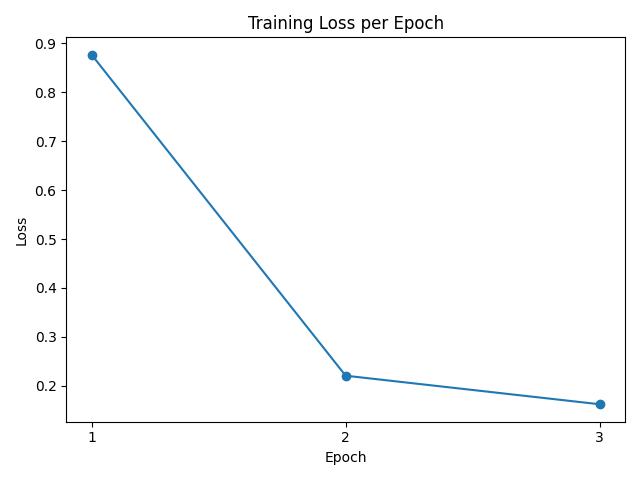
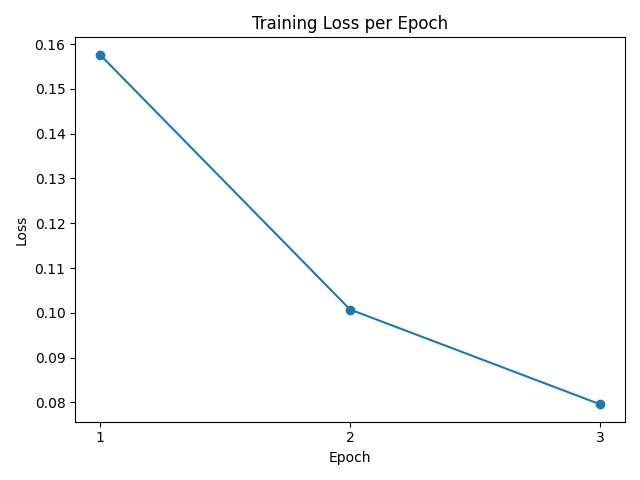
added script that does both training and overlays comparisons

diff --git a/src/overlay/comparison_overlay.py b/src/overlay/comparison_overlay.py
@@ -1,0 +1,102 @@
+import torch
+import copy
+from torchvision import datasets, transforms
+from torch.utils.data import DataLoader, random_split
+
+import sys
+import os
+sys.path.append(os.path.abspath("../.."))
+
+from src.client_training import train_local, evaluate_model, aggregate
+from src.CNN_implementation import CNN
+from src.plotting import plot_loss_overlay, plot_acc_overlay  # the new file
+
+
+# ─── Shared Data Setup ────────────────────────────────────────────────────────
+
+transform = transforms.ToTensor()
+
+full_mnist_trainset = datasets.MNIST(root='./data', train=True, download=True, transform=transform)
+train_size = int(0.7 * len(full_mnist_trainset))
+val_size   = len(full_mnist_trainset) - train_size
+mnist_trainset, mnist_valset = random_split(full_mnist_trainset, [train_size, val_size])
+mnist_testset = datasets.MNIST(root='./data', train=False, download=True, transform=transform)
+
+val_loader  = DataLoader(mnist_valset,  batch_size=64, shuffle=False)
+test_loader = DataLoader(mnist_testset, batch_size=64, shuffle=False)
+
+
+# ─── 1. Centralized Training ─────────────────────────────────────────────────
+
+print("=" * 40)
+print("CENTRALIZED TRAINING")
+print("=" * 40)
+
+number_of_epochs = 3
+train_loader = DataLoader(mnist_trainset, batch_size=64, shuffle=True)
+
+central_model = CNN()
+_, central_losses, central_val_accs = train_local(
+    central_model, train_loader, val_loader, number_of_epochs, lr=0.01
+)
+
+central_test_acc = evaluate_model(test_loader, central_model, True)
+print(f"Centralized Test Accuracy: {central_test_acc:.2f}%")
+
+
+# ─── 2. Federated Training (FedAvg) ──────────────────────────────────────────
+
+print("\n" + "=" * 40)
+print("FEDERATED TRAINING (FedAvg)")
+print("=" * 40)
+
+number_of_clients = 5
+number_of_rounds  = 3
+epochs            = 1
+
+trainset_size        = len(mnist_trainset)
+client_trainset_size = trainset_size // number_of_clients
+client_trainsets     = random_split(mnist_trainset, [client_trainset_size] * number_of_clients)
+client_training_loaders = [DataLoader(ds, batch_size=64, shuffle=True) for ds in client_trainsets]
+
+global_model       = CNN()
+fed_losses         = []
+fed_val_accs       = []
+
+for round_num in range(number_of_rounds):
+    print(f"\nRound {round_num + 1}:")
+
+    client_state_dicts = []
+    num_samples        = []
+    round_losses       = []
+
+    for client in range(number_of_clients):
+        print(f"  Client {client + 1}:")
+        local_model = copy.deepcopy(global_model)
+        weights, losses, _ = train_local(
+            model=local_model,
+            train_loader=client_training_loaders[client],
+            number_of_epochs=epochs,
+            lr=0.1
+        )
+        client_state_dicts.append(weights)
+        num_samples.append(len(client_training_loaders[client].dataset))
+        round_losses.append(losses[-1])
+
+    round_loss = sum(round_losses) / len(round_losses)
+    fed_losses.append(round_loss)
+
+    global_model = aggregate(num_samples, client_state_dicts, global_model)
+
+    print(f"  Avg Loss: {round_loss:.4f}")
+    round_val_acc = evaluate_model(val_loader, global_model, True)
+    fed_val_accs.append(round_val_acc)
+
+fed_test_acc = evaluate_model(test_loader, global_model, True)
+print(f"\nFederated Test Accuracy: {fed_test_acc:.2f}%")
+
+
+# ─── 3. Overlay Plots ────────────────────────────────────────────────────────
+
+plot_loss_overlay(central_losses, fed_losses)
+plot_acc_overlay(central_val_accs, fed_val_accs)

diff --git a/src/plotting.py b/src/plotting.py
@@ -29,3 +29,46 @@ def plot_acc( val_accuracies):
     plt.savefig('accuracy.png')
     plt.show()
 
+
+
+
+def plot_loss_overlay(central_losses, fed_losses):
+    """
+    Overlay loss curves for centralized vs federated training.
+    central_losses: list of per-epoch losses from centralized training
+    fed_losses:     list of per-round losses from federated training
+    """
+    fig, ax = plt.subplots(figsize=(8, 5))
+
+    ax.plot(central_losses, label="Centralized", marker="o", linewidth=2)
+    ax.plot(fed_losses,     label="Federated (FedAvg)", marker="s", linewidth=2, linestyle="--")
+
+    ax.set_xlabel("Epoch / Round")
+    ax.set_ylabel("Loss")
+    ax.set_title("Training Loss: Centralized vs Federated")
+    ax.legend()
+    ax.grid(True, alpha=0.3)
+    plt.tight_layout()
+    plt.savefig("loss_comparison.png", dpi=150)
+    plt.show()
+
+
+def plot_acc_overlay(central_accs, fed_accs):
+    """
+    Overlay validation accuracy curves for centralized vs federated training.
+    central_accs: list of per-epoch val accuracies from centralized training
+    fed_accs:     list of per-round val accuracies from federated training
+    """
+    fig, ax = plt.subplots(figsize=(8, 5))
+
+    ax.plot(central_accs, label="Centralized", marker="o", linewidth=2)
+    ax.plot(fed_accs,     label="Federated (FedAvg)", marker="s", linewidth=2, linestyle="--")
+
+    ax.set_xlabel("Epoch / Round")
+    ax.set_ylabel("Validation Accuracy (%)")
+    ax.set_title("Validation Accuracy: Centralized vs Federated")
+    ax.legend()
+    ax.grid(True, alpha=0.3)
+    plt.tight_layout()
+    plt.savefig("acc_comparison.png", dpi=150)
+    plt.show()

diff --git a/src/Federated_Learning/FL.py b/src/Federated_Learning/FL.py
@@ -60,6 +60,7 @@ test_loader = DataLoader(mnist_testset, batch_size=64, shuffle=False)
 # %%
 # Now we need to aggregate the results with FedAvg
 number_of_rounds = 3
+epochs = 3
 
 global_losses = []        # avg client loss per round
 global_val_accuracies = [] # global model val accuracy per round
@@ -76,7 +77,7 @@ for round in range(number_of_rounds):
     for client in range(number_of_clients):
         print(f"Client{client+1}:")
         local_model = copy.deepcopy(global_model) # copy global model locally
-        weights, losses, _ = train_local(model = local_model, train_loader = client_training_loaders[client], number_of_epochs = 1, lr = 0.1) # train it
+        weights, losses, _ = train_local(model = local_model, train_loader = client_training_loaders[client], number_of_epochs = epochs, lr = 0.1) # train it
         client_state_dictionary.append(weights) # store the weights
         number_of_samples.append(len(client_training_loaders[client].dataset)) # store number of samples
         round_losses.append(losses[-1])
